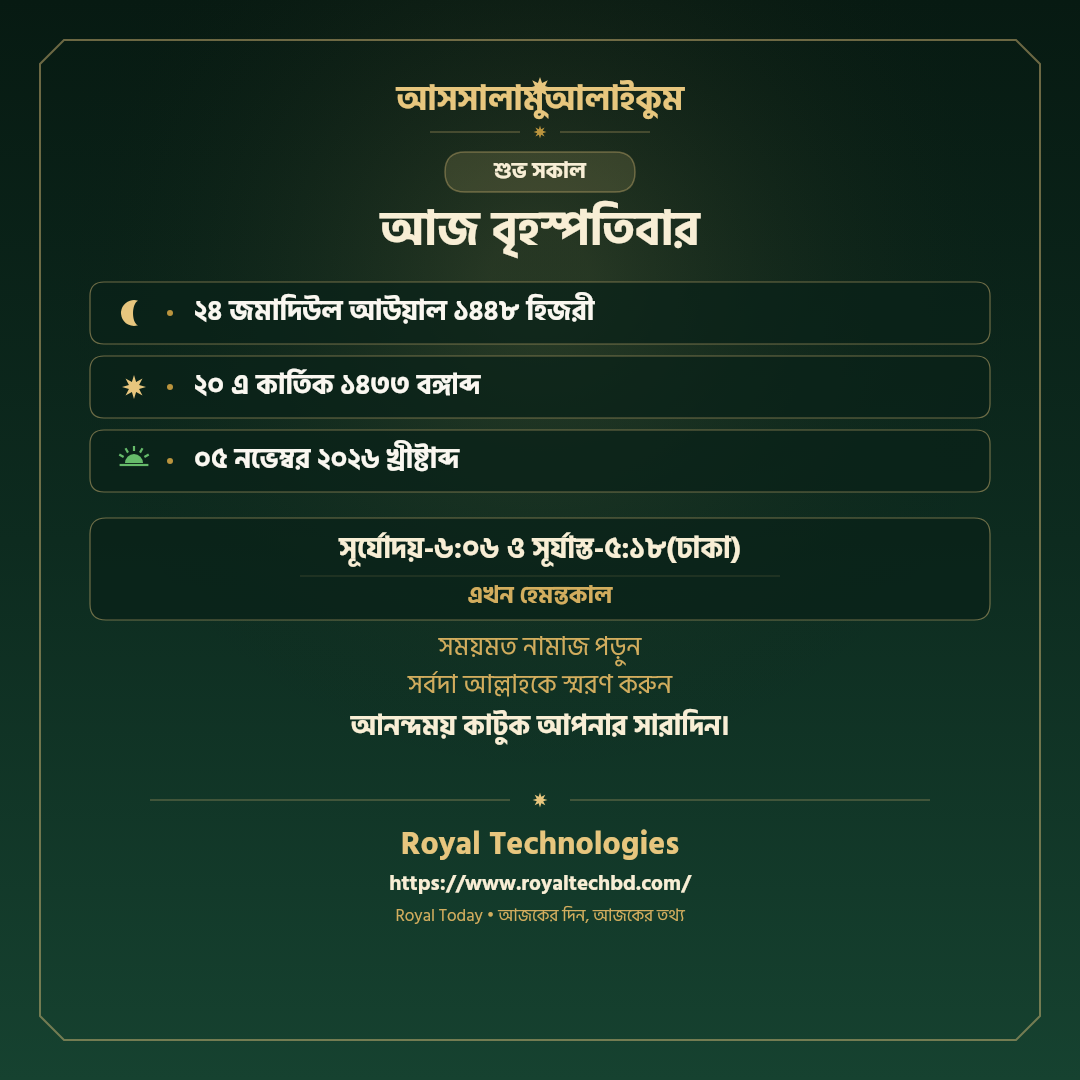
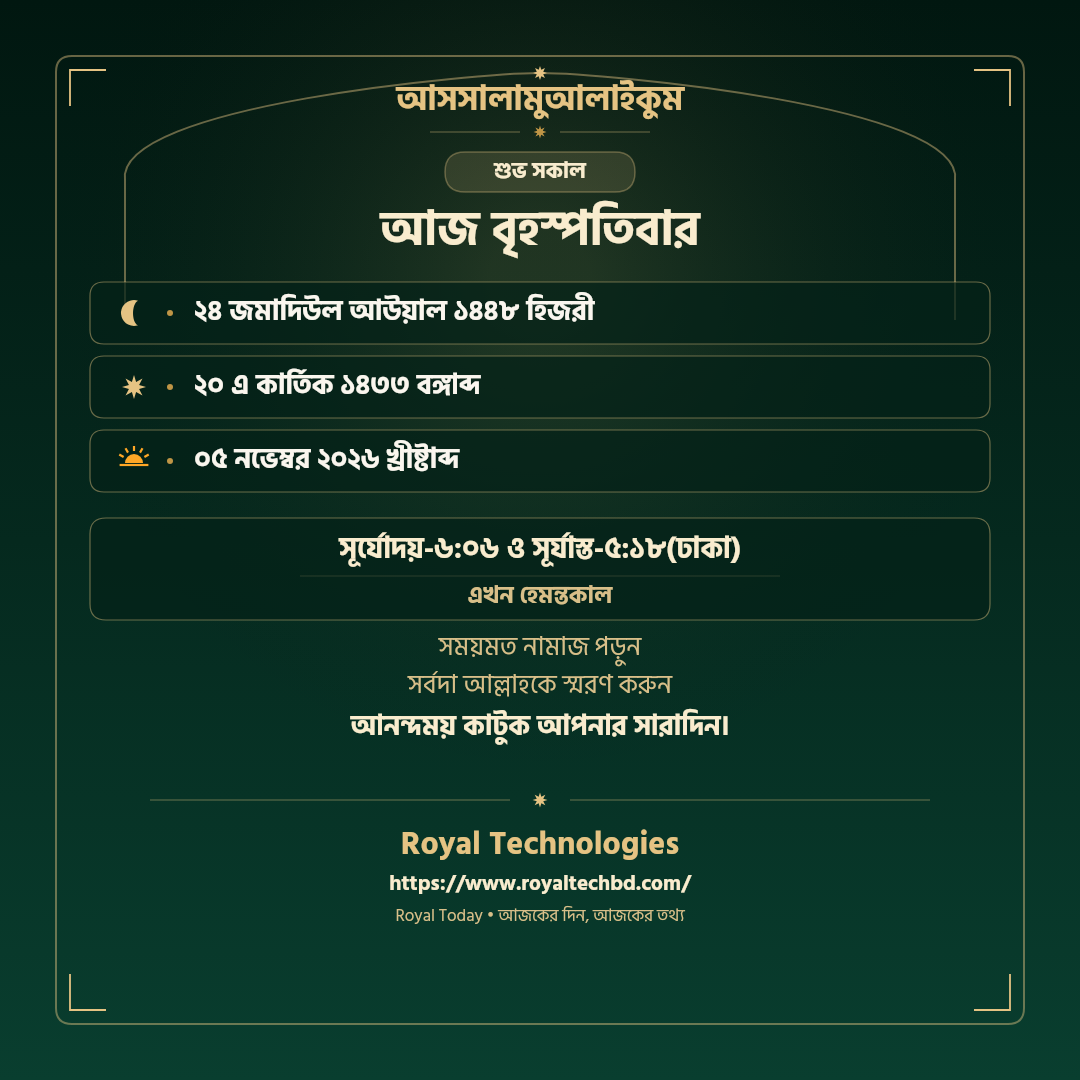
fix(contrast): implement dynamic contrast engine for light & scenic layouts to ensure 100% legibility

diff --git a/templates/royal-today-card.js b/templates/royal-today-card.js
@@ -891,8 +891,82 @@
     const themeKey = options.theme || 'royal-emerald';
     const layoutKey = options.layout || 'mihrab-arch';
 
-    const T = THEMES[themeKey] || THEMES['royal-emerald'];
+    let T = Object.assign({}, THEMES[themeKey] || THEMES['royal-emerald']);
     const L = LAYOUTS[layoutKey] || LAYOUTS['mihrab-arch'];
+
+    // ── DYNAMIC CONTRAST ENGINE ──
+    // Ensures text is ALWAYS 100% crisp, legible, and high-contrast
+    if (layoutKey === 'scenic-alabaster-gold') {
+      // Pure White / Alabaster Gold scenic canvas -> High-contrast dark typography
+      T = Object.assign({}, T, {
+        cardBg: 'rgba(255, 255, 255, 0.95)',
+        borderColor: 'rgba(15, 23, 42, 0.22)',
+        subtleLine: 'rgba(15, 23, 42, 0.12)',
+        badgeBg: 'rgba(217, 119, 6, 0.12)',
+        badgeBorder: 'rgba(217, 119, 6, 0.35)',
+        badgeText: '#92400E',
+        primaryGold: '#064E3B',    // Deep majestic emerald
+        secondaryGold: '#B45309',  // Deep warm amber
+        accentGold: '#0F172A',     // Crisp dark slate for main headings
+        textColor: '#0F172A',      // High contrast dark text for calendar boxes
+        subTextColor: '#334155',   // Deep slate for sub-text
+        highlightColor: '#064E3B', // Rich emerald
+        sunColor: '#D97706',
+        isDark: false
+      });
+    } else if (layoutKey === 'scenic-kaaba-parchment') {
+      // Vintage Parchment Sketch canvas -> High-contrast warm charcoal / deep brown typography
+      T = Object.assign({}, T, {
+        cardBg: 'rgba(255, 253, 247, 0.88)',
+        borderColor: 'rgba(109, 76, 39, 0.38)',
+        subtleLine: 'rgba(109, 76, 39, 0.18)',
+        badgeBg: 'rgba(109, 76, 39, 0.12)',
+        badgeBorder: 'rgba(109, 76, 39, 0.35)',
+        badgeText: '#4A3219',
+        primaryGold: '#6D4C27',
+        secondaryGold: '#8B6538',
+        accentGold: '#2B1A0E',     // Deep antique brown
+        textColor: '#1A120B',      // Deep charcoal
+        subTextColor: '#422814',   // Rich brown
+        highlightColor: '#2B1A0E',
+        sunColor: '#B45309',
+        isDark: false
+      });
+    } else if (!T.isDark) {
+      // Light themes (warm-parchment, classic-ivory)
+      T = Object.assign({}, T, {
+        cardBg: 'rgba(255, 255, 255, 0.9)',
+        borderColor: 'rgba(148, 110, 38, 0.38)',
+        subtleLine: 'rgba(148, 110, 38, 0.18)',
+        badgeBg: 'rgba(148, 110, 38, 0.1)',
+        badgeBorder: 'rgba(148, 110, 38, 0.32)',
+        badgeText: '#705315',
+        textColor: '#1A120B',
+        subTextColor: '#3F2D1D',
+        highlightColor: '#1A120B',
+        accentGold: '#2B1E14',
+        primaryGold: '#8C6721',
+        secondaryGold: '#6A4A0E'
+      });
+    } else if (layoutKey.startsWith('scenic-')) {
+      // All other photo-scenic backgrounds (mountains, stars, dusk, clouds, etc.)
+      T = Object.assign({}, T, {
+        cardBg: 'rgba(15, 23, 42, 0.72)',
+        borderColor: 'rgba(255, 255, 255, 0.32)',
+        subtleLine: 'rgba(255, 255, 255, 0.18)',
+        badgeBg: 'rgba(255, 255, 255, 0.16)',
+        badgeBorder: 'rgba(255, 255, 255, 0.35)',
+        badgeText: '#FFFBEB',
+        primaryGold: '#FDE68A',
+        secondaryGold: '#F59E0B',
+        accentGold: '#FFFFFF',
+        textColor: '#FFFFFF',
+        subTextColor: '#E2E8F0',
+        highlightColor: '#FDE68A',
+        sunColor: '#F59E0B',
+        isDark: true
+      });
+    }
 
     const cardMargin = 40;
     const cardX = cardMargin;
@@ -904,6 +978,19 @@
     if (layoutKey.startsWith('scenic-')) {
       // 10 Scenic & Image Backgrounds
       renderScenicBackground(ctx, layoutKey, cardX, cardY, cardW, cardH);
+
+      // Add double border for alabaster & parchment scenic frames
+      if (layoutKey === 'scenic-alabaster-gold' || layoutKey === 'scenic-kaaba-parchment') {
+        ctx.save();
+        ctx.strokeStyle = layoutKey === 'scenic-alabaster-gold' ? 'rgba(212, 175, 55, 0.65)' : 'rgba(109, 76, 39, 0.45)';
+        ctx.lineWidth = 1.6;
+        drawRoundRect(ctx, cardX + 16, cardY + 16, cardW - 32, cardH - 32, 16);
+        ctx.stroke();
+        drawRoundRect(ctx, cardX + 22, cardY + 22, cardW - 44, cardH - 44, 12);
+        ctx.stroke();
+        drawCornerBrackets(ctx, cardX + 28, cardY + 28, cardW - 56, cardH - 56, 26, '#D4AF37');
+        ctx.restore();
+      }
     } else {
       // 10 Architectural Theme Gradient Backgrounds
       const grad = ctx.createLinearGradient(0, 0, 0, H);
@@ -955,7 +1042,7 @@
     ctx.lineWidth = 1.5;
     drawRoundRect(ctx, badgeX, badgeY, badgeW, badgeH, 20, true, true);
 
-    ctx.fillStyle = T.accentGold;
+    ctx.fillStyle = T.badgeText || (T.isDark ? T.accentGold : T.primaryGold);
     ctx.font = '600 22px "Hind Siliguri", sans-serif';
     ctx.fillText(data.greetingSub || 'শুভ সকাল', W / 2, badgeY + badgeH / 2 + 2);
 
